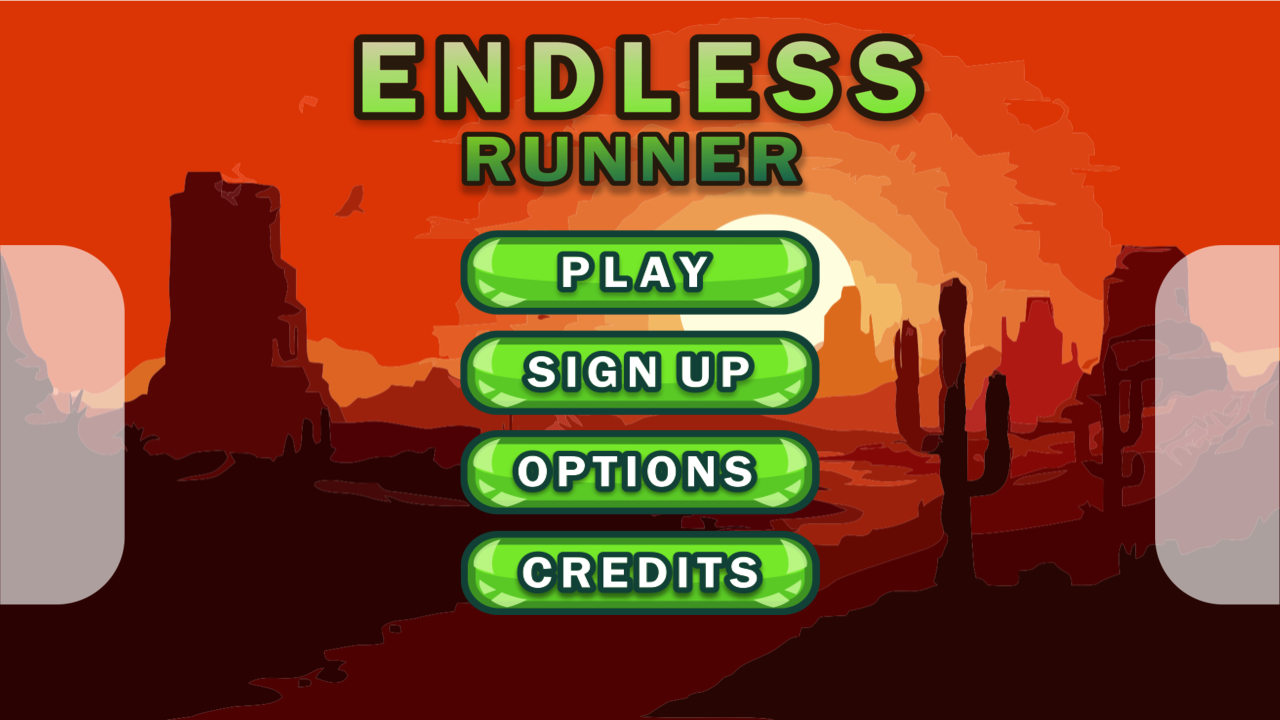
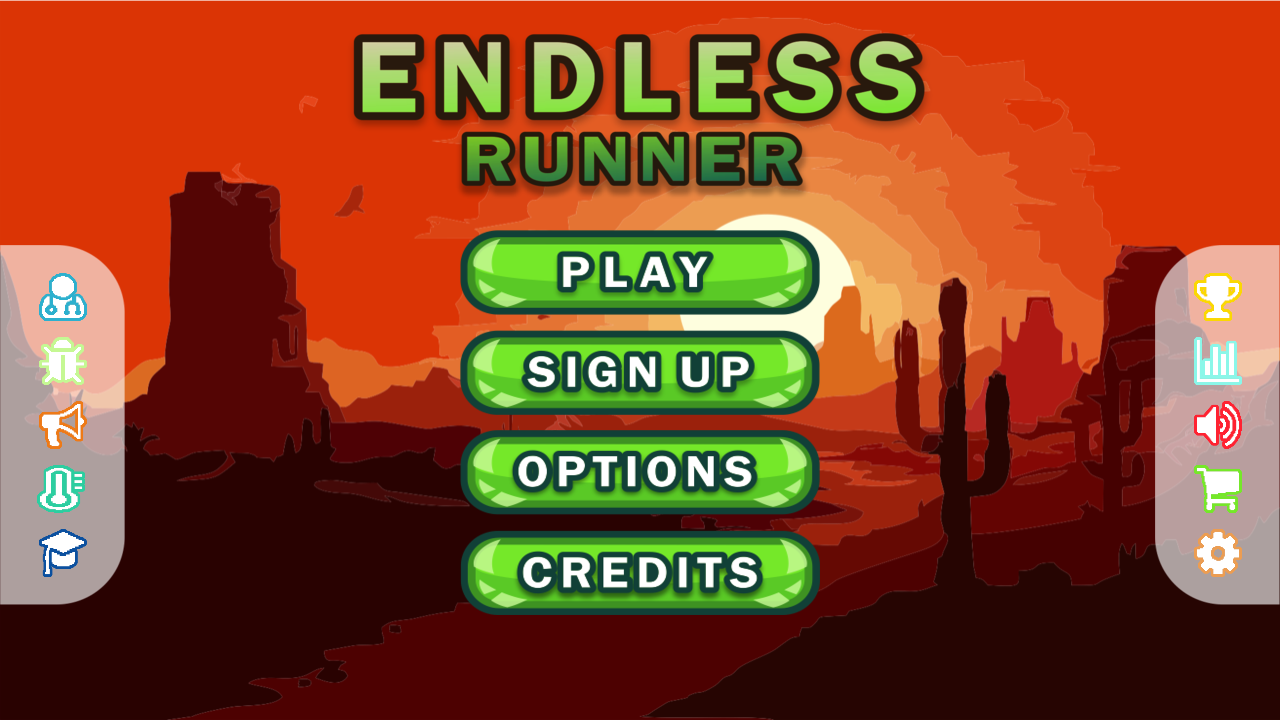
Actualizando Formularios

Changed region(s): [[0.9062, 0.3667, 0.9688, 0.7944], [0.0312, 0.3667, 0.0938, 0.7944]]

diff --git a/GloveForms/Properties/Resources.Designer.cs b/GloveForms/Properties/Resources.Designer.cs
@@ -63,9 +63,29 @@ namespace GloveForms.Properties {
         /// <summary>
         ///   Busca un recurso adaptado de tipo System.Drawing.Bitmap.
         /// </summary>
+        internal static System.Drawing.Bitmap CreditsButton {
+            get {
+                object obj = ResourceManager.GetObject("CreditsButton", resourceCulture);
+                return ((System.Drawing.Bitmap)(obj));
+            }
+        }
+        
+        /// <summary>
+        ///   Busca un recurso adaptado de tipo System.Drawing.Bitmap.
+        /// </summary>
         internal static System.Drawing.Bitmap GetDocumentBackground {
             get {
                 object obj = ResourceManager.GetObject("GetDocumentBackground", resourceCulture);
+                return ((System.Drawing.Bitmap)(obj));
+            }
+        }
+        
+        /// <summary>
+        ///   Busca un recurso adaptado de tipo System.Drawing.Bitmap.
+        /// </summary>
+        internal static System.Drawing.Bitmap LoginButton {
+            get {
+                object obj = ResourceManager.GetObject("LoginButton", resourceCulture);
                 return ((System.Drawing.Bitmap)(obj));
             }
         }
@@ -83,9 +103,39 @@ namespace GloveForms.Properties {
         /// <summary>
         ///   Busca un recurso adaptado de tipo System.Drawing.Bitmap.
         /// </summary>
+        internal static System.Drawing.Bitmap OptionsButton {
+            get {
+                object obj = ResourceManager.GetObject("OptionsButton", resourceCulture);
+                return ((System.Drawing.Bitmap)(obj));
+            }
+        }
+        
+        /// <summary>
+        ///   Busca un recurso adaptado de tipo System.Drawing.Bitmap.
+        /// </summary>
         internal static System.Drawing.Bitmap PatientFormBackground {
             get {
                 object obj = ResourceManager.GetObject("PatientFormBackground", resourceCulture);
+                return ((System.Drawing.Bitmap)(obj));
+            }
+        }
+        
+        /// <summary>
+        ///   Busca un recurso adaptado de tipo System.Drawing.Bitmap.
+        /// </summary>
+        internal static System.Drawing.Bitmap PlayButton {
+            get {
+                object obj = ResourceManager.GetObject("PlayButton", resourceCulture);
+                return ((System.Drawing.Bitmap)(obj));
+            }
+        }
+        
+        /// <summary>
+        ///   Busca un recurso adaptado de tipo System.Drawing.Bitmap.
+        /// </summary>
+        internal static System.Drawing.Bitmap SignUpButton {
+            get {
+                object obj = ResourceManager.GetObject("SignUpButton", resourceCulture);
                 return ((System.Drawing.Bitmap)(obj));
             }
         }

diff --git a/GloveForms/MainScreen.Designer.cs b/GloveForms/MainScreen.Designer.cs
@@ -37,10 +37,15 @@
             // 
             // PlayButton
             // 
+            this.PlayButton.AutoSizeMode = System.Windows.Forms.AutoSizeMode.GrowAndShrink;
             this.PlayButton.BackColor = System.Drawing.Color.Transparent;
+            this.PlayButton.BackgroundImage = global::GloveForms.Properties.Resources.PlayButton;
+            this.PlayButton.BackgroundImageLayout = System.Windows.Forms.ImageLayout.None;
             this.PlayButton.Cursor = System.Windows.Forms.Cursors.Hand;
             this.PlayButton.FlatAppearance.BorderSize = 0;
             this.PlayButton.FlatStyle = System.Windows.Forms.FlatStyle.Flat;
+            this.PlayButton.Font = new System.Drawing.Font("Segoe UI", 9F, System.Drawing.FontStyle.Regular, System.Drawing.GraphicsUnit.Point);
+            this.PlayButton.ForeColor = System.Drawing.Color.Transparent;
             this.PlayButton.Location = new System.Drawing.Point(460, 230);
             this.PlayButton.Margin = new System.Windows.Forms.Padding(0);
             this.PlayButton.Name = "PlayButton";
@@ -52,6 +57,8 @@
             // SignUpButton
             // 
             this.SignUpButton.BackColor = System.Drawing.Color.Transparent;
+            this.SignUpButton.BackgroundImage = global::GloveForms.Properties.Resources.SignUpButton;
+            this.SignUpButton.BackgroundImageLayout = System.Windows.Forms.ImageLayout.Center;
             this.SignUpButton.Cursor = System.Windows.Forms.Cursors.Hand;
             this.SignUpButton.FlatAppearance.BorderSize = 0;
             this.SignUpButton.FlatStyle = System.Windows.Forms.FlatStyle.Flat;
@@ -66,6 +73,8 @@
             // OptionsButton
             // 
             this.OptionsButton.BackColor = System.Drawing.Color.Transparent;
+            this.OptionsButton.BackgroundImage = global::GloveForms.Properties.Resources.OptionsButton;
+            this.OptionsButton.BackgroundImageLayout = System.Windows.Forms.ImageLayout.Center;
             this.OptionsButton.Cursor = System.Windows.Forms.Cursors.Hand;
             this.OptionsButton.FlatAppearance.BorderSize = 0;
             this.OptionsButton.FlatStyle = System.Windows.Forms.FlatStyle.Flat;
@@ -79,6 +88,8 @@
             // CreditsButton
             // 
             this.CreditsButton.BackColor = System.Drawing.Color.Transparent;
+            this.CreditsButton.BackgroundImage = global::GloveForms.Properties.Resources.CreditsButton;
+            this.CreditsButton.BackgroundImageLayout = System.Windows.Forms.ImageLayout.Center;
             this.CreditsButton.Cursor = System.Windows.Forms.Cursors.Hand;
             this.CreditsButton.FlatAppearance.BorderSize = 0;
             this.CreditsButton.FlatStyle = System.Windows.Forms.FlatStyle.Flat;

diff --git a/GloveForms/MainScreen.cs b/GloveForms/MainScreen.cs
@@ -6,7 +6,9 @@ namespace GloveForms
 {
     public partial class MainScreen : Form
     {
-        
+
+        SoundPlayer backgroundSong = new SoundPlayer(@"D:/Proyectos Visual Studio/GloveAnalytics/GloveSounds/We Fell In Love In October.wav");
+
         public MainScreen()
         {
             InitializeComponent();
@@ -39,8 +41,7 @@ namespace GloveForms
         private void MainScreen_Load(object sender, EventArgs e)
         {
 
-            SoundPlayer backgroundSong = new SoundPlayer(@"D:/Proyectos Visual Studio/GloveAnalytics/GloveSounds/WeFellInLoveInOctober.wav");
-            backgroundSong.PlayLooping();
+            this.backgroundSong.PlayLooping();
 
         }
 

diff --git a/GloveForms/GetDocument.Designer.cs b/GloveForms/GetDocument.Designer.cs
@@ -46,6 +46,8 @@
             // LoginButton
             // 
             this.LoginButton.BackColor = System.Drawing.Color.Transparent;
+            this.LoginButton.BackgroundImage = global::GloveForms.Properties.Resources.LoginButton;
+            this.LoginButton.BackgroundImageLayout = System.Windows.Forms.ImageLayout.Center;
             this.LoginButton.Cursor = System.Windows.Forms.Cursors.Hand;
             this.LoginButton.FlatAppearance.BorderSize = 0;
             this.LoginButton.FlatStyle = System.Windows.Forms.FlatStyle.Flat;

diff --git a/GloveForms/GetDocument.cs b/GloveForms/GetDocument.cs
@@ -33,6 +33,7 @@ namespace GloveForms
                     // Here we can merge the forms or GUI with the videogame!
                     MessageBox.Show(Convert.ToString(documentId));
                 }
+                ClearField();
             }
             else
             {
@@ -45,6 +46,13 @@ namespace GloveForms
         {
 
             return DocumentTextBox.Text.Length == 0;
+
+        }
+
+        private void ClearField()
+        {
+
+            DocumentTextBox.Text = "";
 
         }
 
